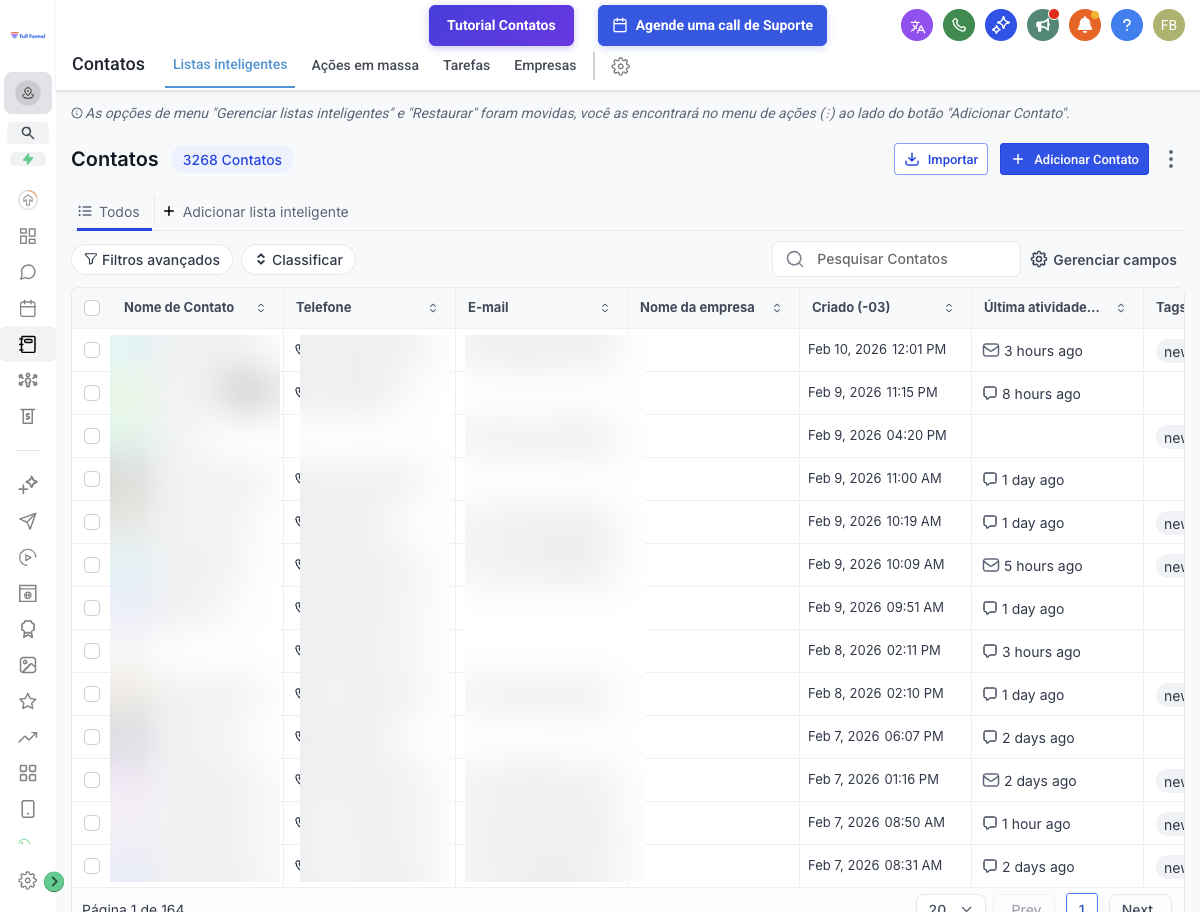
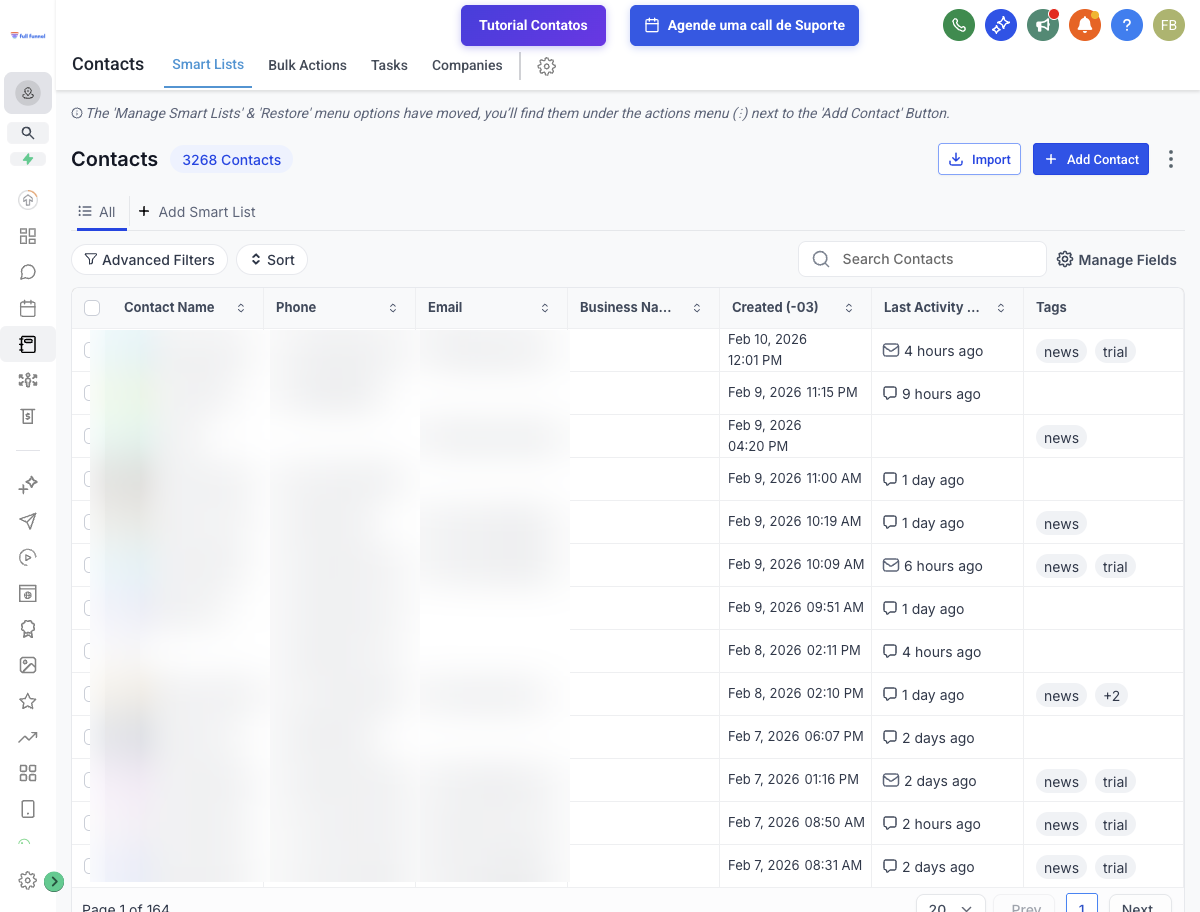
fix: corrigir seta SVG, atualizar screenshots e reescrever textos pedagógicos
Bug 1 - SVG Arrow:
- Adicionado triple rAF + setTimeout fallback após image.onload
- Adicionado ResizeObserver no screenshot-wrapper
- Adicionado check para imagens já em cache (img.complete)
- Seta agora aparece corretamente no carregamento inicial

Bug 2 - Screenshots:
- Novos screenshots tirados do GHL atual (passo-01, 02, 03)
- Blur aplicado em dados sensíveis (nomes, telefones, emails, avatares)
- Headers, botões e estrutura da interface preservados

Textos pedagógicos:
- Todos os 7 passos reescritos para leigo total
- Explicação do que é CSV, o que é mapeamento
- Avisos claros sobre campos personalizados
- Linguagem direta e sem jargão técnico

diff --git a/tutorials/importacao-contatos/index.html b/tutorials/importacao-contatos/index.html
@@ -237,61 +237,59 @@
 const STEPS = [
   {
     image: "passo-01.png",
-    // Frame de destaque (x%, y%, largura%, altura%)
     highlight: { x: 2, y: 30, w: 4, h: 50 },
-    // Posição do tooltip: "left-center", "left-top", "right-center", "center-top"
     tooltipPos: "center-top",
-    title: "Acesse a seção de Contatos",
-    text: "No menu lateral esquerdo, clique no ícone de Contatos (ícone de pessoa). A tela principal mostra todos os seus contatos cadastrados com nome, telefone, e-mail, tags e última atividade.",
-    tip: "💡 Use filtros avançados e listas inteligentes para organizar melhor seus contatos antes de importar."
+    title: "Abra a lista de Contatos",
+    text: "Olhe para a barra lateral esquerda — aquela coluna estreita com ícones. Procure o ícone de uma pessoa (bonequinho). Clique nele. Isso vai abrir a tela onde ficam TODOS os contatos que já estão cadastrados no seu sistema.",
+    tip: "💡 Essa lista mostra nome, telefone, e-mail, tags e quando cada contato foi ativo pela última vez. Antes de importar novos contatos, dê uma olhada aqui pra saber o que já tem."
   },
   {
     image: "passo-01.png",
     highlight: { x: 76, y: 14, w: 10, h: 5 },
     tooltipPos: "left-center",
-    title: "Clique no botão \"Importar\"",
-    text: "No canto superior direito, ao lado de 'Adicionar Contato', clique no botão 'Importar'. É por aqui que começa o processo de importação via CSV.",
-    tip: "💡 Importações anteriores ficam acessíveis pela aba 'Ações em massa'."
+    title: "Clique no botão \"Import\"",
+    text: "Agora olhe no canto superior direito da tela. Você vai ver dois botões: 'Import' e 'Add Contact'. Clique no botão 'Import' (com o ícone de seta para baixo). É esse botão que inicia o processo de trazer seus contatos de um arquivo para dentro do sistema.",
+    tip: "💡 Se você já fez importações antes, pode ver o histórico clicando na aba 'Bulk Actions' (Ações em massa) no topo da página."
   },
   {
     image: "passo-02.png",
     highlight: { x: 9, y: 35, w: 45, h: 15 },
     tooltipPos: "right-center",
-    title: "Selecione \"Contatos\"",
-    text: "Escolha o tipo de objeto que deseja importar. Selecione 'Contatos' para importar sua lista de leads, clientes ou prospects. A opção já vem selecionada por padrão.",
-    tip: "⚠ A opção 'Leads' serve para importar negociações do pipeline, não pessoas. Se quer importar uma lista de pessoas, mantenha 'Contatos' selecionado."
+    title: "Escolha importar \"Contacts\"",
+    text: "O sistema pergunta O QUE você quer importar. Existem duas opções: 'Contacts' (pessoas — leads, clientes, prospects) e 'Opportunities' (negociações de vendas). Como queremos trazer uma lista de PESSOAS, deixe 'Contacts' marcado. Ele já vem selecionado por padrão (com a caixa azul marcada).",
+    tip: "⚠ NÃO clique em 'Opportunities'! Essa opção é para importar negócios/vendas do pipeline, não pessoas. Se você quer trazer uma planilha com nomes, telefones e e-mails, a opção certa é 'Contacts'."
   },
   {
     image: "passo-02.png",
     highlight: { x: 88, y: 92, w: 10, h: 5 },
     tooltipPos: "left-center",
-    title: "Clique em \"Seguinte\"",
-    text: "Com 'Contatos' selecionado, clique no botão azul 'Seguinte' no canto inferior direito para avançar para a etapa de upload do arquivo.",
+    title: "Avance clicando em \"Next\"",
+    text: "Conferiu que 'Contacts' está marcado? Ótimo! Agora olhe no canto inferior direito da tela e clique no botão azul 'Next' para ir para a próxima etapa, onde você vai enviar seu arquivo.",
     tip: null
   },
   {
     image: "passo-03.png",
     highlight: { x: 30, y: 38, w: 40, h: 24 },
     tooltipPos: "left-top",
-    title: "Faça upload do seu arquivo CSV",
-    text: "Arraste e solte seu arquivo CSV na área indicada, ou clique para selecionar o arquivo do seu computador. O limite é de 30 MB por arquivo.",
-    tip: "💡 Seu CSV deve ter cabeçalhos na primeira linha (ex: Nome, Email, Telefone). Use vírgula ou ponto-e-vírgula como separador. Clique em 'Baixar arquivo de amostra' para ver o formato ideal."
+    title: "Envie seu arquivo CSV",
+    text: "Chegou a hora de enviar seu arquivo! Veja a área pontilhada no centro da tela — é ali que você coloca o arquivo. Você tem duas opções: arrastar o arquivo direto do seu computador e soltar nessa área, ou clicar nela para abrir o seletor de arquivos. O arquivo precisa ser um CSV (planilha salva como .csv) de até 30 MB.",
+    tip: "💡 Não sabe o que é CSV? É uma planilha simples onde os dados são separados por vírgula. Você pode criar um no Excel ou Google Sheets: basta ir em 'Salvar como' e escolher o formato CSV. A primeira linha DEVE ter os nomes das colunas (Nome, Email, Telefone, etc). Clique em 'Download sample file' para baixar um modelo pronto."
   },
   {
     image: "passo-05.png",
     highlight: { x: 10, y: 68, w: 80, h: 25 },
     tooltipPos: "left-top",
-    title: "Mapeie os campos do CSV",
-    text: "Esta é a etapa mais importante! O sistema mostra cada coluna do seu CSV e você precisa associá-la ao campo correto. Campos como Nome, Email e Telefone são nativos. Para campos personalizados, selecione no dropdown.",
-    tip: "💡 Se seu CSV tem colunas como 'Origem do Lead' ou 'Interesse', crie campos personalizados em Configurações > Campos ANTES de importar. Marque 'Don't update to an empty value' para não apagar dados existentes."
+    title: "Conecte as colunas do arquivo aos campos do sistema",
+    text: "Esta é a etapa mais importante — o MAPEAMENTO. Funciona assim: cada coluna do seu arquivo (ex: 'Nome', 'Email') precisa ser conectada ao campo correspondente dentro do sistema. O sistema tenta fazer isso automaticamente — campos comuns como Nome, Email e Telefone geralmente já vêm conectados. Confira se cada linha da tabela está com o campo certo selecionado no dropdown 'Fields'.",
+    tip: "💡 IMPORTANTE: Se seu arquivo tem colunas extras (como 'Origem do Lead' ou 'Interesse'), esses campos NÃO existem no sistema por padrão. Você precisa criá-los ANTES em Configurações > Campos Personalizados. Se não criar, esses dados serão ignorados na importação. Marque 'Don't update to an empty value' para não apagar dados que já existem nos contatos."
   },
   {
     image: "passo-05.png",
     highlight: { x: 90, y: 90, w: 8, h: 6 },
     tooltipPos: "left-center",
-    title: "Verifique e confirme a importação",
-    text: "Após mapear todos os campos, clique em 'Next' para ir à tela de verificação. Revise o resumo — número de contatos novos vs. atualizações — e clique em 'Confirmar' para iniciar o processo.",
-    tip: "⚠ A importação não pode ser desfeita! Teste com poucos contatos primeiro. O sistema detecta duplicatas automaticamente por ID, telefone ou e-mail."
+    title: "Confira tudo e confirme",
+    text: "Mapeou todos os campos? Clique em 'Next' no canto inferior direito. O sistema vai mostrar um resumo: quantos contatos novos serão criados e quantos já existem e serão atualizados. Leia esse resumo com atenção! Se tudo estiver certo, clique em 'Confirm' para iniciar a importação. Os contatos aparecerão na sua lista em alguns segundos.",
+    tip: "⚠ CUIDADO: A importação NÃO pode ser desfeita! Se você importar 5.000 contatos errados, vai precisar apagar um por um. Por isso, TESTE PRIMEIRO com um arquivo pequeno (5 a 10 contatos) para ver se tudo está mapeado certo. O sistema evita duplicatas automaticamente por telefone ou e-mail."
   }
 ];
 
@@ -352,8 +350,25 @@ function goToStep(index) {
   img.classList.remove('fade-in');
 
   setTimeout(() => {
+    // Robust arrow update: triple rAF + fallback timeout
+    function scheduleArrowUpdate(step) {
+      requestAnimationFrame(() => {
+        requestAnimationFrame(() => {
+          requestAnimationFrame(() => {
+            updateArrow(step);
+          });
+        });
+      });
+      // Fallback in case rAF fires before full layout
+      setTimeout(() => updateArrow(step), 500);
+    }
+
     img.src = step.image;
-    img.onload = () => updateArrow(step);
+    img.onload = () => scheduleArrowUpdate(step);
+    // If image is cached and onload doesn't fire
+    if (img.complete && img.naturalWidth > 0) {
+      scheduleArrowUpdate(step);
+    }
     img.classList.remove('fade-out');
     img.classList.add('fade-in');
 
@@ -459,6 +474,14 @@ document.addEventListener('keydown', (e) => {
 window.addEventListener('resize', () => {
   if (currentStep >= 0 && currentStep < STEPS.length) updateArrow(STEPS[currentStep]);
 });
+
+// ResizeObserver to recalculate arrow when wrapper dimensions change (image load, layout shift)
+const resizeObserver = new ResizeObserver(() => {
+  if (currentStep >= 0 && currentStep < STEPS.length) {
+    requestAnimationFrame(() => updateArrow(STEPS[currentStep]));
+  }
+});
+resizeObserver.observe(document.getElementById('screenshot-wrapper'));
 
 init();
 </script>
